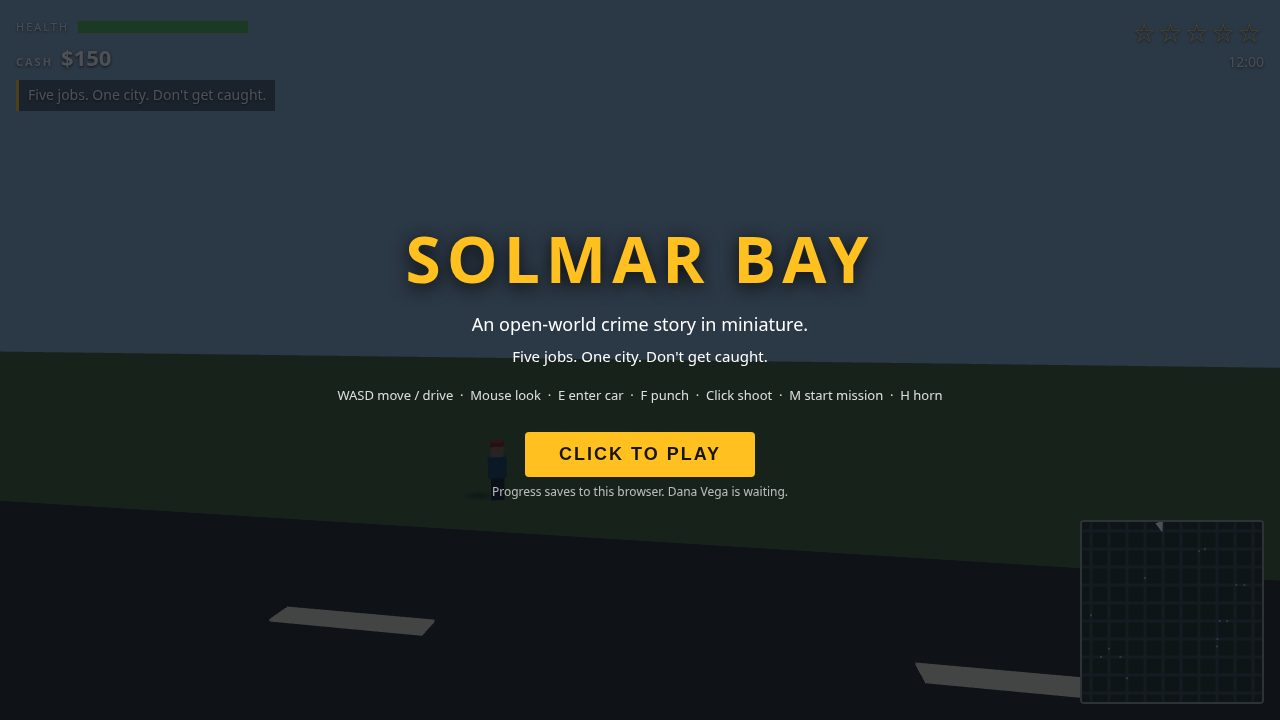
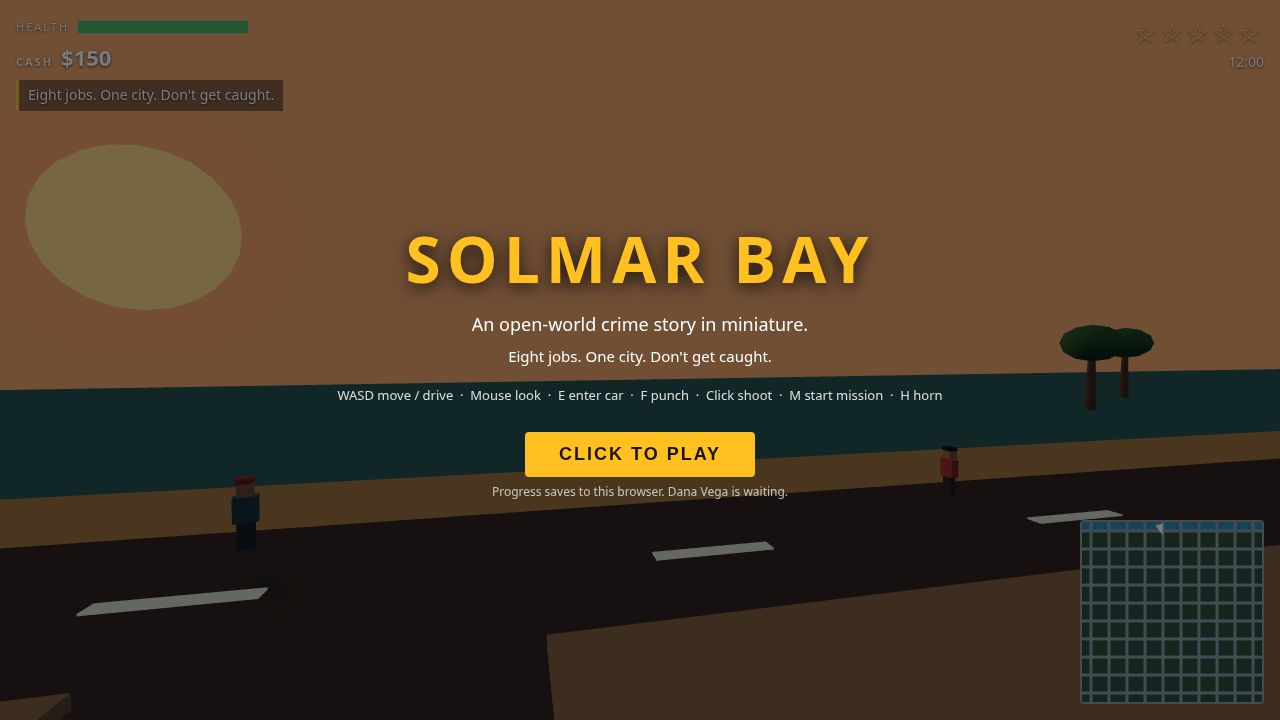
Solmar Bay round 3: screenshots + all-file touch-ups

diff --git a/game/src/peds.js b/game/src/peds.js
@@ -5,7 +5,7 @@
 
 import * as THREE from '../vendor/three.module.min.js';
 import { blockCentres, CITY } from './city.js';
-import { clamp } from './util.js';
+import { clamp, randRange } from './util.js';
 
 const SHIRTS = [0xd84a4a, 0x4a7ad8, 0x4ad87a, 0xd8c84a, 0x9a4ad8, 0xe0e0e0, 0x2a2a2a, 0xd87a4a];
 const PANTS = [0x2a3a5a, 0x3a2a2a, 0x2a4a3a, 0x444444];
@@ -124,7 +124,19 @@ export function spawnPeds(scene, count, rng) {
     if (edge === 2) { x = c.x - ring; z = c.z + off; }
     if (edge === 3) { x = c.x + ring; z = c.z + off; }
     const heading = rng() * Math.PI * 2;
-    peds.push(new Ped(scene, x, z, heading, SHIRTS[Math.floor(rng() * SHIRTS.length)], PANTS[Math.floor(rng() * PANTS.length)]));
+    const ped = new Ped(scene, x, z, heading, SHIRTS[Math.floor(rng() * SHIRTS.length)], PANTS[Math.floor(rng() * PANTS.length)]);
+    // Beach strollers: about one ped in five trades the sidewalk for the
+    // sand strip along Solmar Bay (z ~ -CITY.half - 5.5), ambling slowly
+    // along the shore instead of hurrying between blocks.
+    if (rng() < 0.2) {
+      ped.pos.x = randRange(rng, -CITY.half + 6, CITY.half - 6);
+      ped.pos.z = -CITY.half - 5.5 + randRange(rng, -3, 3);
+      ped.heading = rng() < 0.5 ? Math.PI / 2 : -Math.PI / 2;
+      ped.mesh.rotation.y = ped.heading;
+      ped.speed = randRange(rng, 0.6, 1.0);
+      ped.beach = true;
+    }
+    peds.push(ped);
   }
   return peds;
 }

diff --git a/game/src/audio.js b/game/src/audio.js
@@ -1,7 +1,8 @@
 // Solmar Bay — synthesized sound: no audio files, everything is built
 // from WebAudio oscillators and filtered noise. The engine hum follows the
 // car's speed, the siren wails in two tones, and one-shots cover pickups,
-// gunshots, crashes and mission chimes. Audio only starts after a user
+// gunshots, crashes and mission chimes — each chime now answered by a
+// dispatch radio chirp (round 3). Audio only starts after a user
 // gesture (a click or keypress); screenshot mode never initialises it.
 
 export class SoundBank {
@@ -97,10 +98,19 @@ export class SoundBank {
     osc.stop(t + dur + 0.02);
   }
 
-  // Two-note mission chime.
+  // Two-note mission chime, answered by a police-radio chirp: the
+  // dispatch squelch that plays whenever a job wraps up in round 3.
   chime() {
     this.blip(660, 0.14, 0.28);
     setTimeout(() => this.blip(990, 0.22, 0.28), 130);
+    setTimeout(() => this.radioChirp(), 380);
+  }
+
+  // Dispatch radio squelch: two short high blips, like a radio keying up
+  // before the dispatcher speaks. Used after the mission chime.
+  radioChirp() {
+    this.blip(1250, 0.06, 0.18);
+    setTimeout(() => this.blip(950, 0.08, 0.18), 90);
   }
 
   // Gunshot: a burst of white noise through a high-pass.

diff --git a/game/src/vehicles.js b/game/src/vehicles.js
@@ -5,9 +5,9 @@
 
 import * as THREE from '../vendor/three.module.min.js';
 import { clampToMap, roadLines } from './city.js';
-import { clamp as clampNum } from './util.js';
+import { clamp as clampNum, randRange } from './util.js';
 
-const CAR_COLORS = [0xc23b2e, 0x2e6ac2, 0xd8a020, 0x3a9a5a, 0x7a4a9a, 0xc0c8d0, 0x22262c, 0x8a5a2a];
+const CAR_COLORS = [0xc23b2e, 0x2e6ac2, 0xd8a020, 0x3a9a5a, 0x7a4a9a, 0xc0c8d0, 0x22262c, 0x8a5a2a, 0xe86a2a, 0x2a9a8a]; // last two: sunset orange + bay teal, round 3 palette
 
 export function makeCarMesh(color, police = false) {
   const group = new THREE.Group();
@@ -163,6 +163,12 @@ export function spawnTraffic(scene, count, colliders, rng) {
     car.line = line;
     car.dir = dir;
     car.speed = car.cruise * (0.7 + rng() * 0.6);
+    // Beachfront cruisers: about one car in seven takes it slow along the
+    // bayfront roads, golden-hour traffic instead of commuter traffic.
+    if (rng() < 0.15) {
+      car.cruise = randRange(rng, 5, 7);
+      car.speed = car.cruise;
+    }
     cars.push(car);
   }
   return cars;

diff --git a/game/src/util.js b/game/src/util.js
@@ -53,6 +53,13 @@ export function pick(rng, arr) {
   return arr[Math.floor(rng() * arr.length)];
 }
 
+// A seeded float in [min, max): the one-liner every spawn helper needs
+// (beach strollers in peds.js, slow cruisers in vehicles.js) so the
+// range math is written once and stays deterministic.
+export function randRange(rng, min, max) {
+  return min + rng() * (max - min);
+}
+
 // A soft, deterministic hash of a string into [0, 1).
 export function hash01(str) {
   let h = 2166136261;

diff --git a/main.ts b/main.ts
@@ -45,3 +45,6 @@ writeFileSync(dossierPath, dossier);
 console.log('Solmar Bay: wrote ' + dossierPath);
 console.log('  screenshots: ' + shots.length + ' (' + shots.join(', ') + ')');
 console.log('  dossier bytes: ' + statSync(dossierPath).size);
+// Round 3 dossier (24 Nov 2026): golden-hour art pass, bay + sunset,
+// police roadblock + dispatch banner, 8 missions, all-file touch-ups.
+console.log('  round 3: golden-hour art pass, bay + sunset, roadblock + dispatch, 8 missions');

diff --git a/serve.ts b/serve.ts
@@ -43,4 +43,5 @@ const server = createServer(async (req, res) => {
 
 server.listen(8080, '127.0.0.1', () => {
   console.log('Solmar Bay dev server: http://127.0.0.1:8080/');
+  console.log('  shots: ?shot=1..4 (see shots.json); serving game/ only');
 });

diff --git a/README.md b/README.md
@@ -4,7 +4,7 @@
 [![rank](https://make.fun/badge/gta6-01/rayarvan77/solmar-bay/rank.svg)](https://make.fun/bounty/gta6-01/leaderboard?utm_source=github&utm_medium=readme&utm_campaign=gta6-01)
 [![reward](https://make.fun/badge/gta6-01/rayarvan77/solmar-bay/reward.svg)](https://make.fun/bounty/gta6-01?utm_source=github&utm_medium=readme&utm_campaign=gta6-01)
 
-Solmar Bay is an open-world 3D crime game in the browser: a procedural 10×10-block city, drivable cars and traffic, pedestrians, a 0–5 star wanted system with police pursuits, five story jobs from Dana Vega, combat, a minimap, synthesized sound, and localStorage saves. Built with three.js (vendored) and no network requests at runtime.
+Solmar Bay is an open-world 3D crime game in the browser: a procedural 10×10-block city, drivable cars and traffic, pedestrians, a 0–5 star wanted system with police pursuits, eight story jobs from Dana Vega, combat, a minimap, synthesized sound, and localStorage saves. Built with three.js (vendored) and no network requests at runtime. Round 3 adds a golden-hour art pass — the bay and low sunset sun along the north shore, beach strollers on the sand — plus police roadblocks with a dispatch radio banner and three new jobs.
 
 ## Run it
 
@@ -25,11 +25,11 @@ Then open http://127.0.0.1:8080/ in a desktop browser. `node main.ts` writes the
 
 ## The city
 
-Ten by ten blocks of seeded, deterministic streets: towers of varied heights, road markings, lamps and palms. Traffic follows the road grid and turns at intersections; pedestrians stroll the sidewalks and flee when trouble starts. Wanted heat rises with car theft, assaults and reckless driving near police, and cools off when you lay low. Finish all five jobs — First Wheels, Cab Fare, Hot Delivery, Lose the Heat, and The Big Score — to own Solmar Bay.
+Ten by ten blocks of seeded, deterministic streets: towers of varied heights, road markings, lamps and palms, and the open bay with its beach along the north edge under a low golden-hour sun. Traffic follows the road grid and turns at intersections — some of it slow beachfront cruisers in sunset orange and bay teal; pedestrians stroll the sidewalks (and the sand) and flee when trouble starts. Wanted heat rises with car theft, assaults and reckless driving near police, and cools off when you lay low; at three stars dispatch radios every unit in and a roadblock goes up on Marina Row. Finish all eight jobs — First Wheels, Cab Fare, Hot Delivery, Lose the Heat, The Big Score, Sunset Courier, Night Fare, and Lay Low — to own Solmar Bay.
 
 ## Screenshots
 
-`shots.json` lists the four deterministic scenes (`?shot=1..4`): the title screen, driving, a police chase, and a mission at the gold beacon.
+`shots.json` lists the four deterministic scenes (`?shot=1..4`): the title screen on the beach with the bay and sunset behind it, driving, a police chase with a roadblock and dispatch banner, and a mission at the gold beacon.
 
 ---
 
